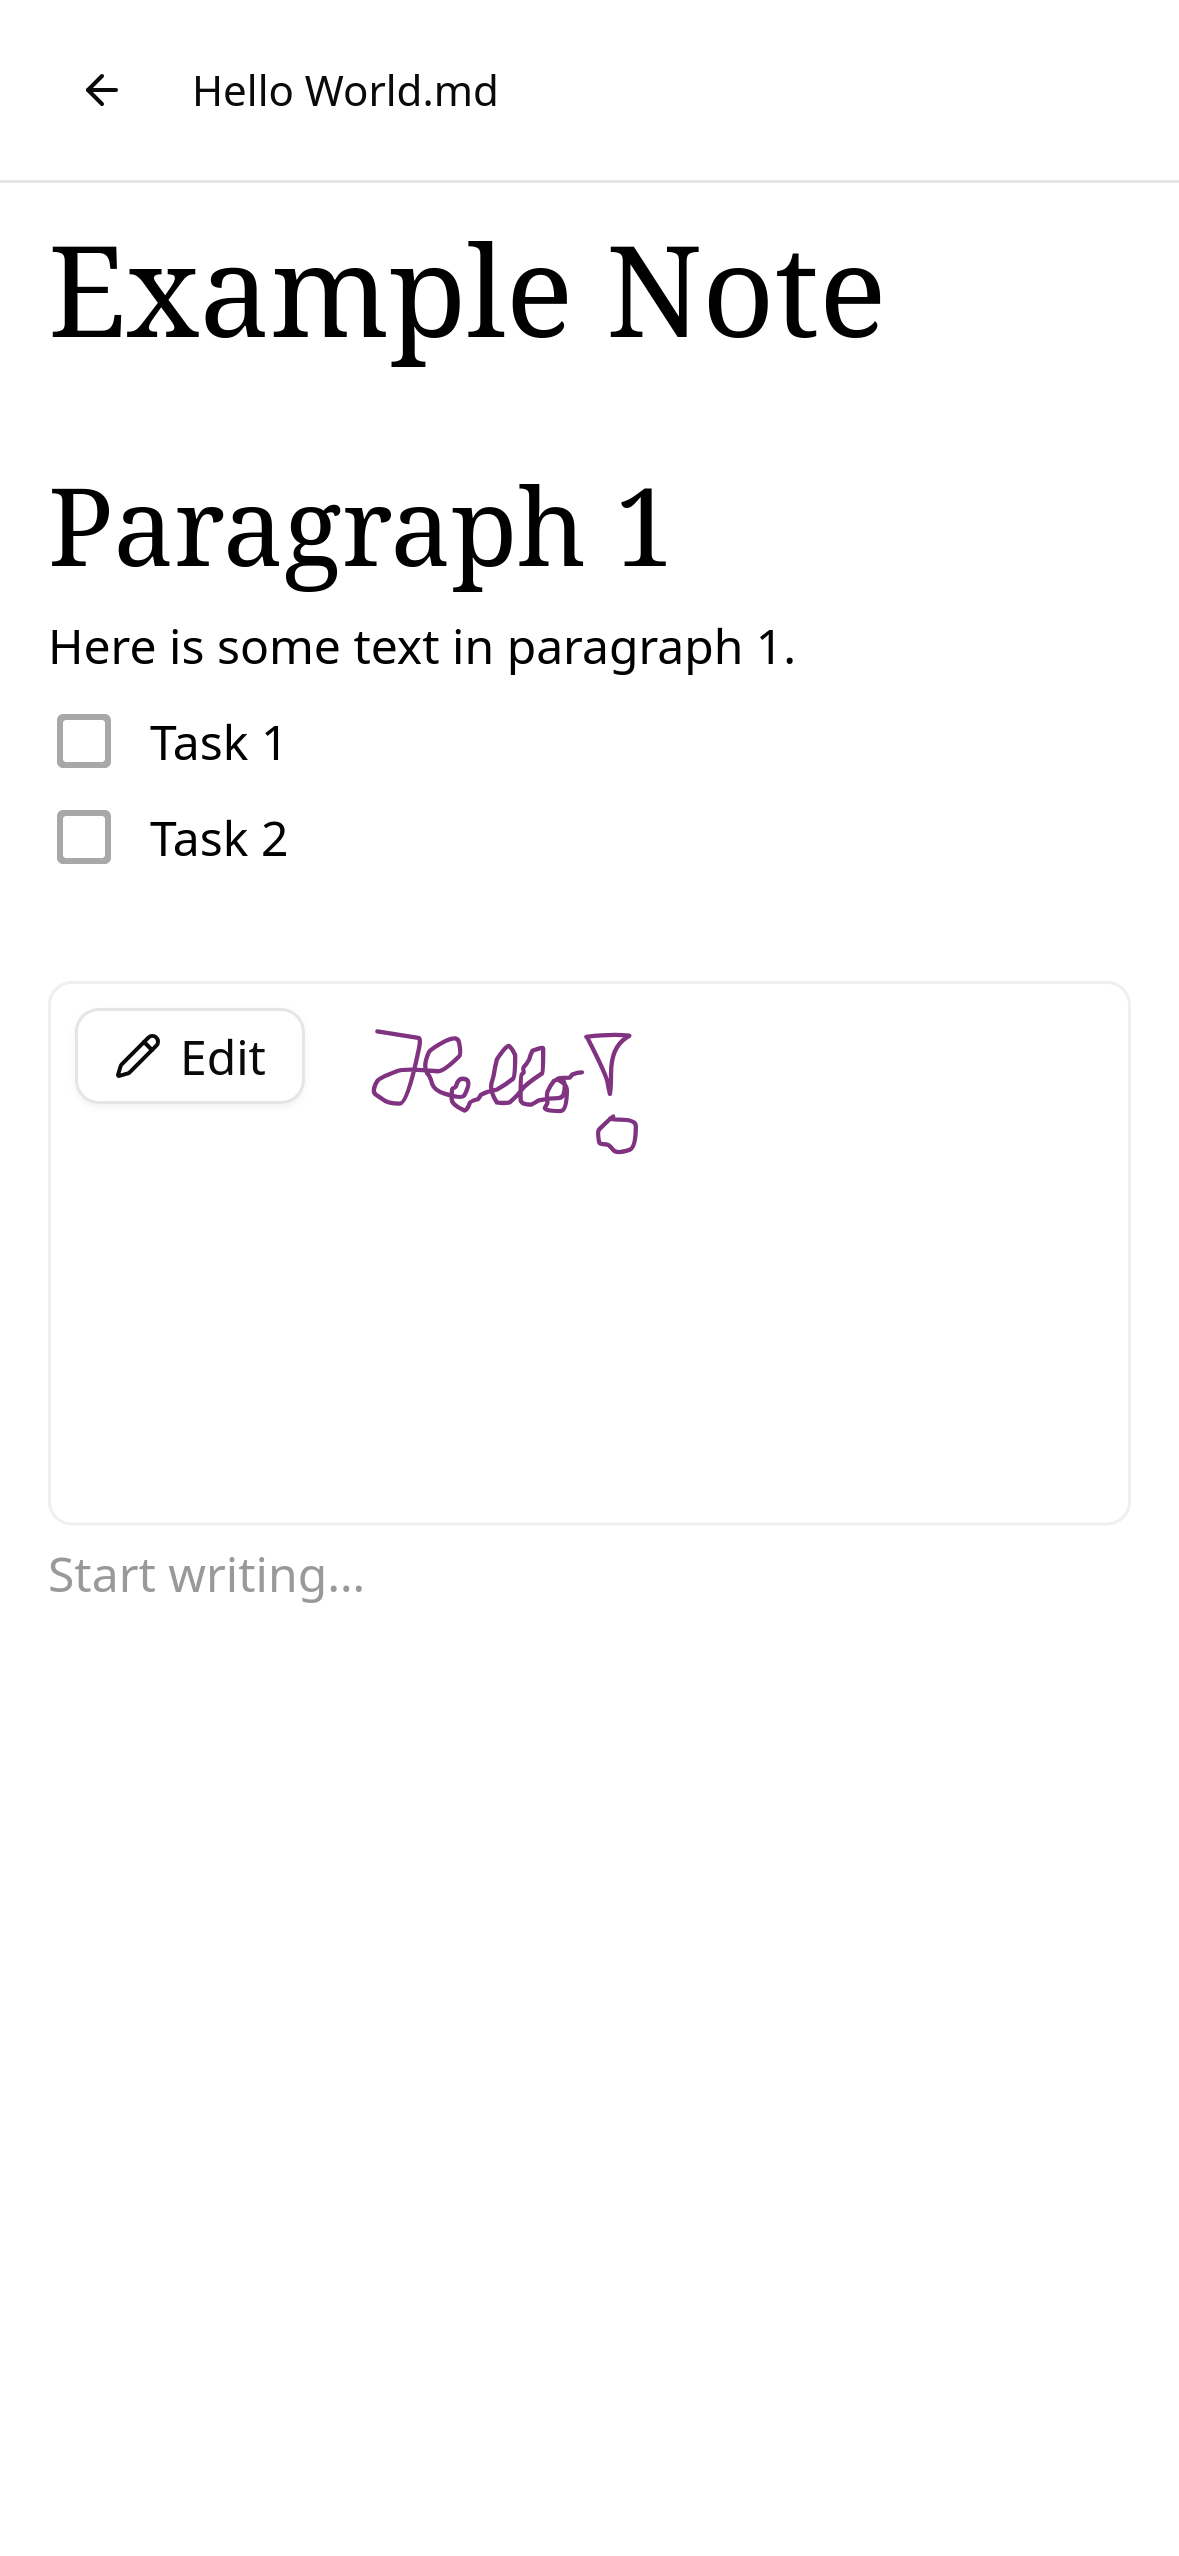
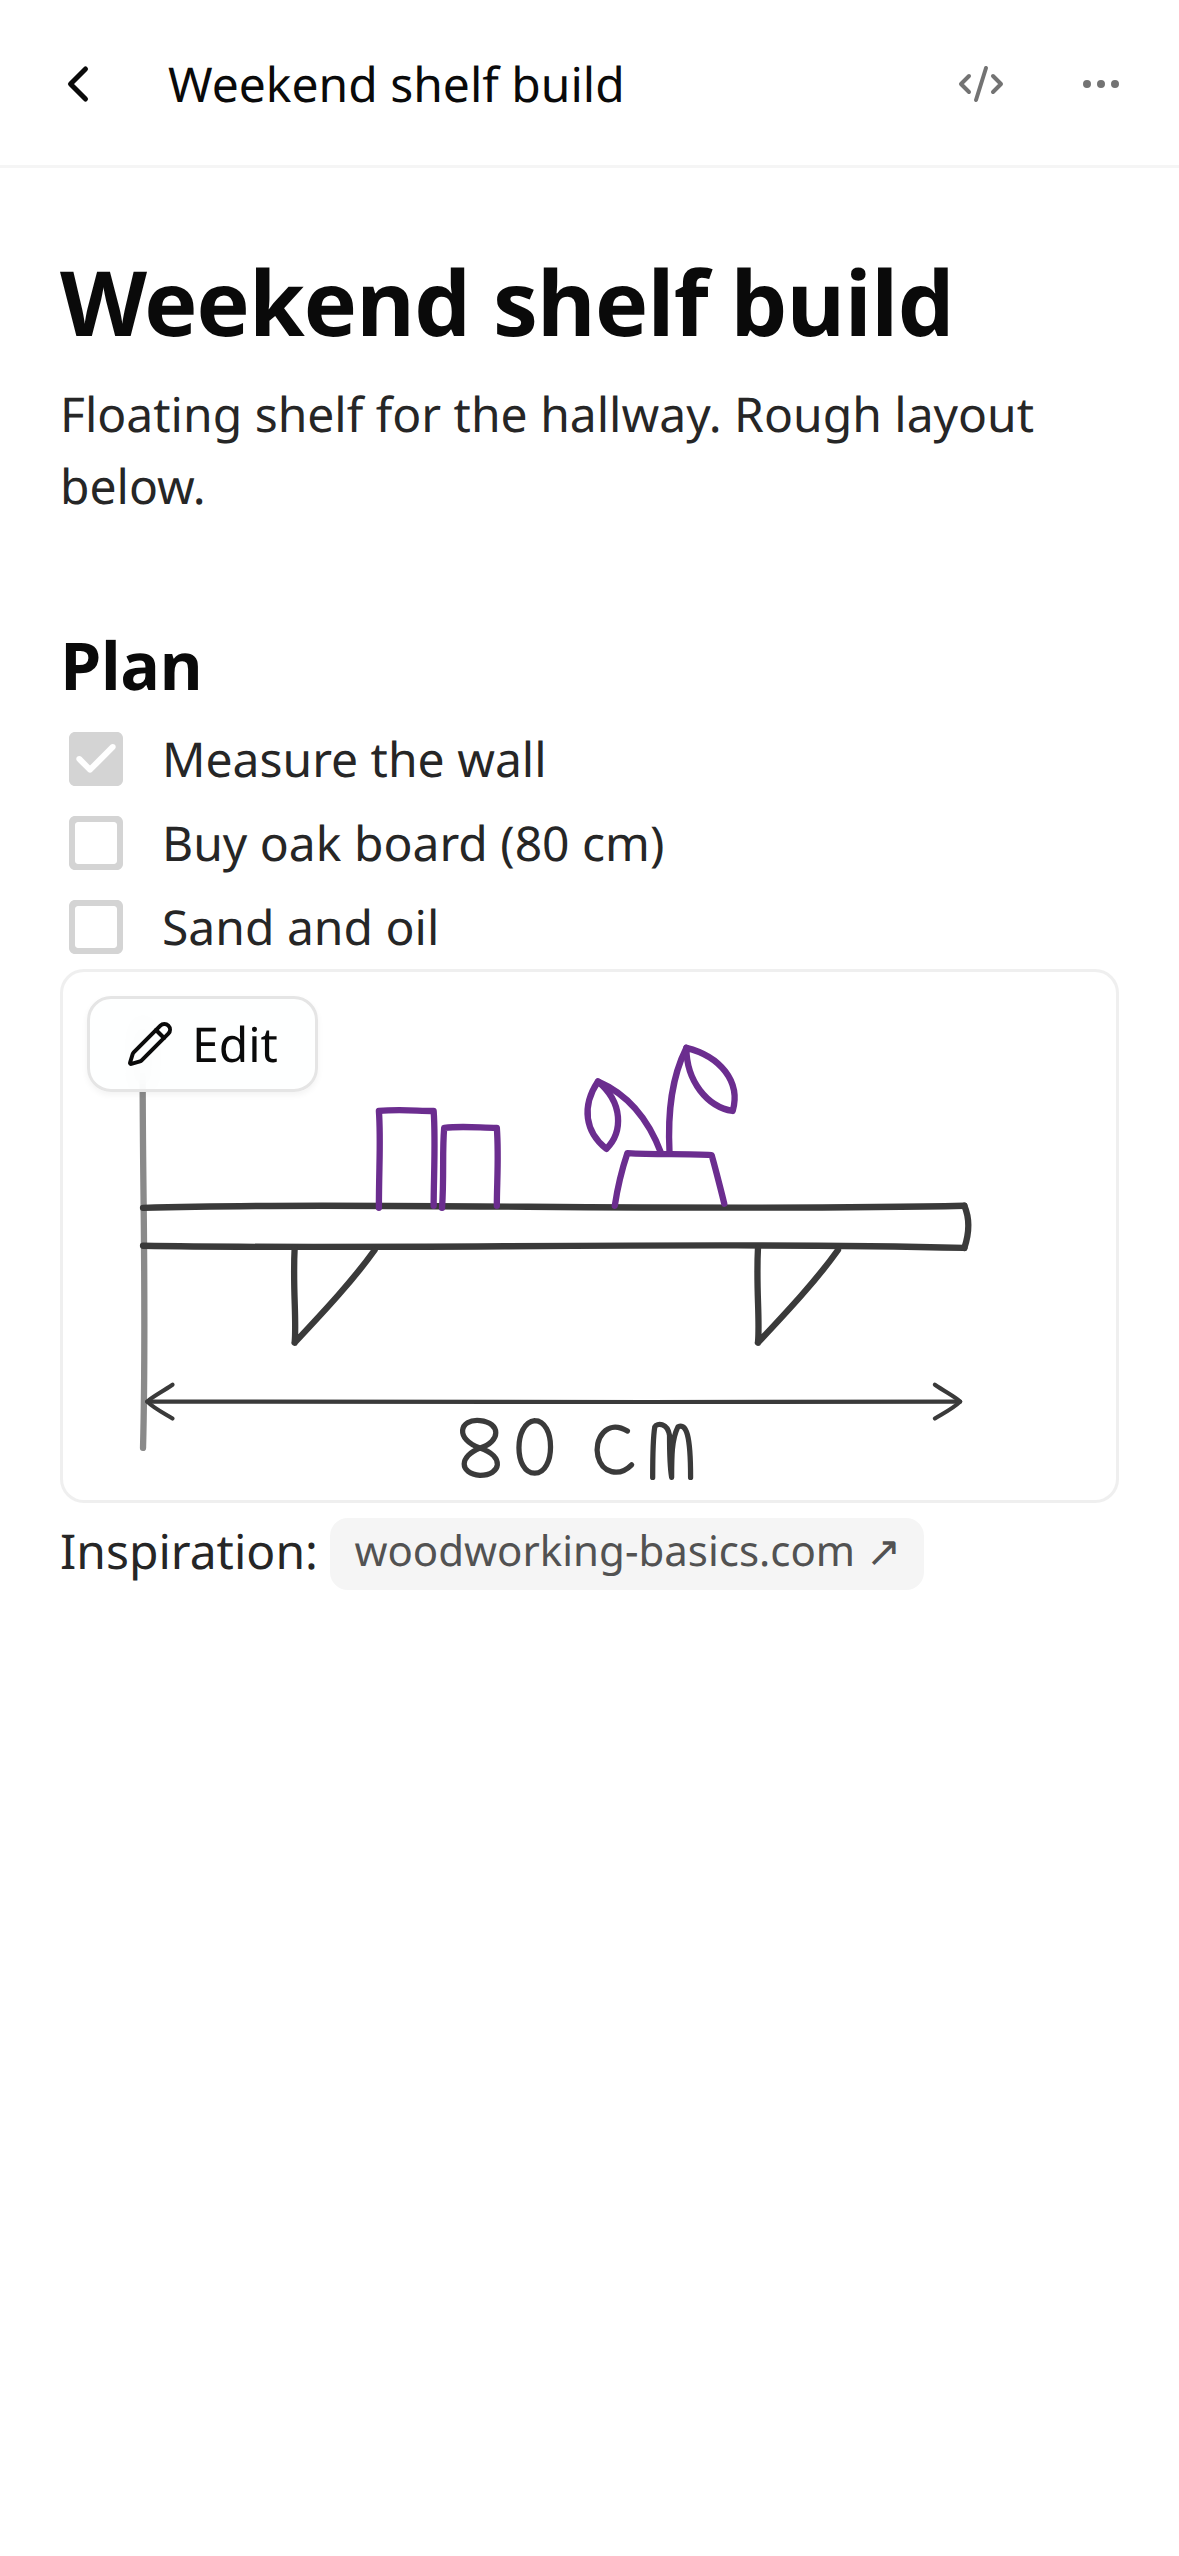
Update README with whiteboards and refresh screenshots with dummy content.

diff --git a/README.md b/README.md
@@ -1,6 +1,6 @@
 # Nomagi — modern notes app using markdown and git
 
-Technically a pure frontend to **plain Markdown files in your own Git repo** — but acts like a **modern notes app** with mobile and offline support plus advanced features like **handwritten sketches**.
+Technically a pure frontend to **plain Markdown files in your own Git repo** — but acts like a **modern notes app** with mobile and offline support plus advanced features like **handwritten sketches** and **whiteboards**.
 
 Web-app, installable as a PWA for a native-like, offline experience on mobile (iOS/Android) and desktop.
 
@@ -12,9 +12,11 @@ Works with any git hoster that supports personal access tokens (GitHub, GitLab, 
 | --- | --- | --- |
 | ![Connect a Git repository](docs/images/setup_screen.png) | ![Recent notes sidebar](docs/images/recent_screen.png) | ![Note with handwritten sketch blocks](docs/images/example_note.png) |
 
+![Whiteboard with notes, an embedded note and groups](docs/images/whiteboard.png)
+
 ## Who it's for
 
-People who value Markdown and Git as a **safe, durable home for valuable personal or work notes** but don't want to miss out on features that a code editor can't provide - like taking handwritten notes on a tablet.
+People who value Markdown and Git as a **safe, durable home for valuable personal or work notes** but don't want to miss out on features that a code editor can't provide - like taking handwritten notes on a tablet or arranging notes on a whiteboard.
 
 Not for users who need real-time collaboration or project management features (like tasks, databases and kanban boards); consider tools like NextCloud Whiteboard (Excalidraw) or AFFiNE instead.
 
@@ -23,6 +25,7 @@ Not for users who need real-time collaboration or project management features (l
 - **Plain Markdown, even on disk.** Notes are stored as standard `.md` files, not a proprietary or "markdown-like" internal format. No vendor lock-in, you can switch to other tools at any time and edit files manually with external editors.
 - **Modern WYSIWYG editing.** A polished [Milkdown](https://milkdown.dev/) editor, not a raw textarea. Notion-like convenience.
 - **Sketches where you need them.** Handwriting and sketch blocks live *inside* a Markdown note as SVG, kept simple and local to the document. Works great on a tablet / iPad.
+- **Whiteboards in an open format.** Arrange text notes, images, frames and whole embedded notes (editable right on the board) on an infinite canvas. Boards are plain `.canvas` files in Obsidian's open [JSON Canvas](https://jsoncanvas.org/) format, one node per line so git diffs stay readable, and they open in other tools too.
 - **AI outsourced** Because notes are plain files, point *any* agent (Cursor, Copilot, Claude, …) directly at your repo to edit, refactor, or summarize. No need for the app to ship its own slightly-worse, less-maintained AI features — best-in-class tools work on your files directly.
 - **Nothing to host, you still own the data** The app is **client-only** — nothing to host (except optionally a CORS proxy, see below). Point it at any Git remote you already trust (GitHub, self-hosted GitLab, a local bare repo). No additional maintenance, no "the app server shuts down after a year" risk.
 - **Git does the hard parts, invisibly.** Versioning, history, backup, and conflict resolution are handled by Git — but you never see it. No commits, no push/pull, no merge prompts. It auto-saves and syncs in the background, so it just feels like any modern app that saves for you.
@@ -39,12 +42,13 @@ Not for users who need real-time collaboration or project management features (l
 | Edit notes with any AI agent | Yes (plain files) | Limited / built-in only | Yes | Indirect | Yes |
 | Polished WYSIWYG editor | Yes (Milkdown) | Yes | Partial | Partial | No |
 | Handwritten / sketch notes | Yes (blocks in a note) | No | Via plugins | Via plugin | No |
+| Whiteboard / canvas | Yes (open JSON Canvas files) | Only via embeds (Miro, Excalidraw, …) | Yes (Obsidian Canvas uses JSON Canvas too; Logseq has whiteboards) | Yes (desktop only, JSON Canvas stored inside notes) | No |
 
-## Roadmap
+## Limitations & roadmap
 
-Currently, sketches are scoped to blocks *within* a note, not a free-floating canvas across documents or anywhere on documents (like with OneNote).
+Sketches are scoped to blocks *within* a note. For a free-floating layout there are whiteboards: they hold text notes, images, frames and embedded notes (including their sketches), but you can't draw freehand directly on the board.
 
-A whiteboard/canvas may come later via Obsidian's open [`jsoncanvas`](https://jsoncanvas.org/) format — so even future features stay in portable, open formats.
+Whiteboards use Obsidian's open [`jsoncanvas`](https://jsoncanvas.org/) format, so even these features stay in portable, open formats. Connecting lines between nodes aren't drawn or editable yet; they are kept untouched in the file, so boards created in other tools don't lose them.
 
 ## Try it
 
